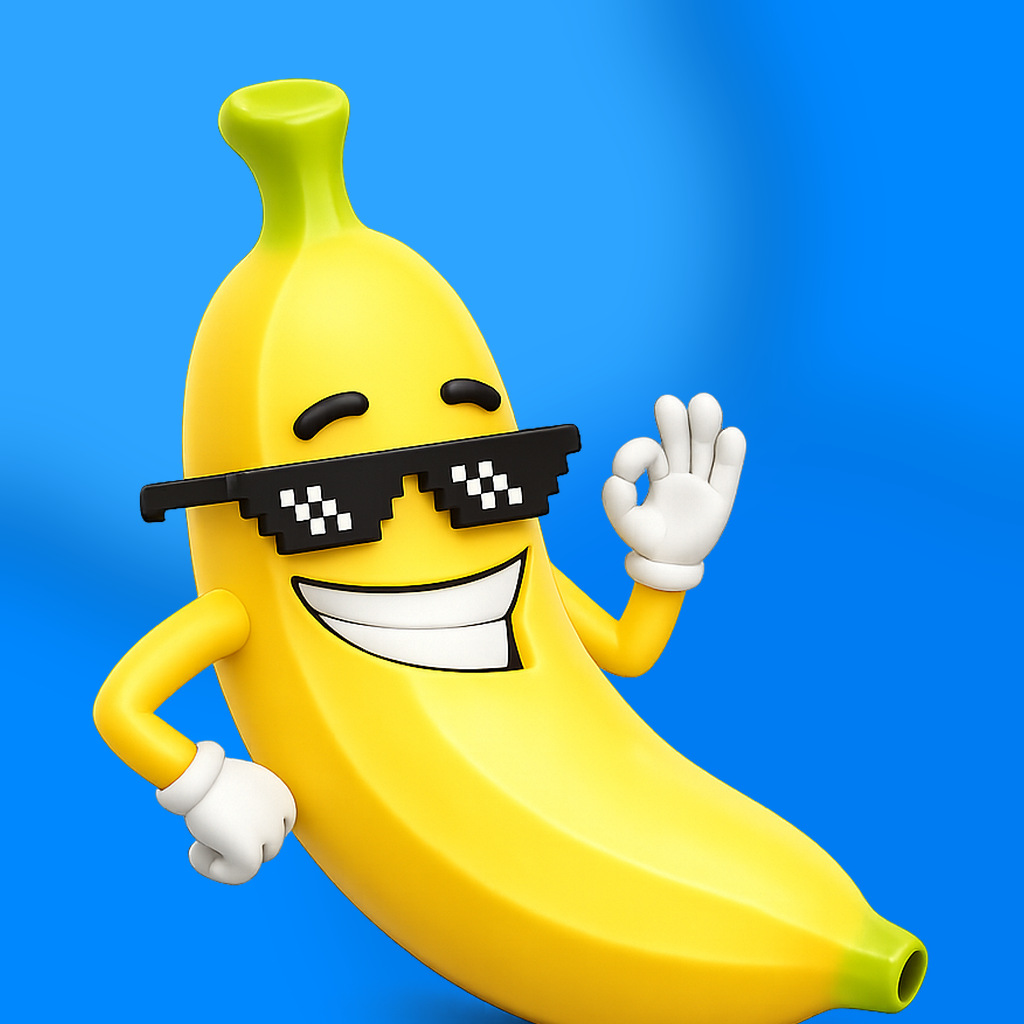
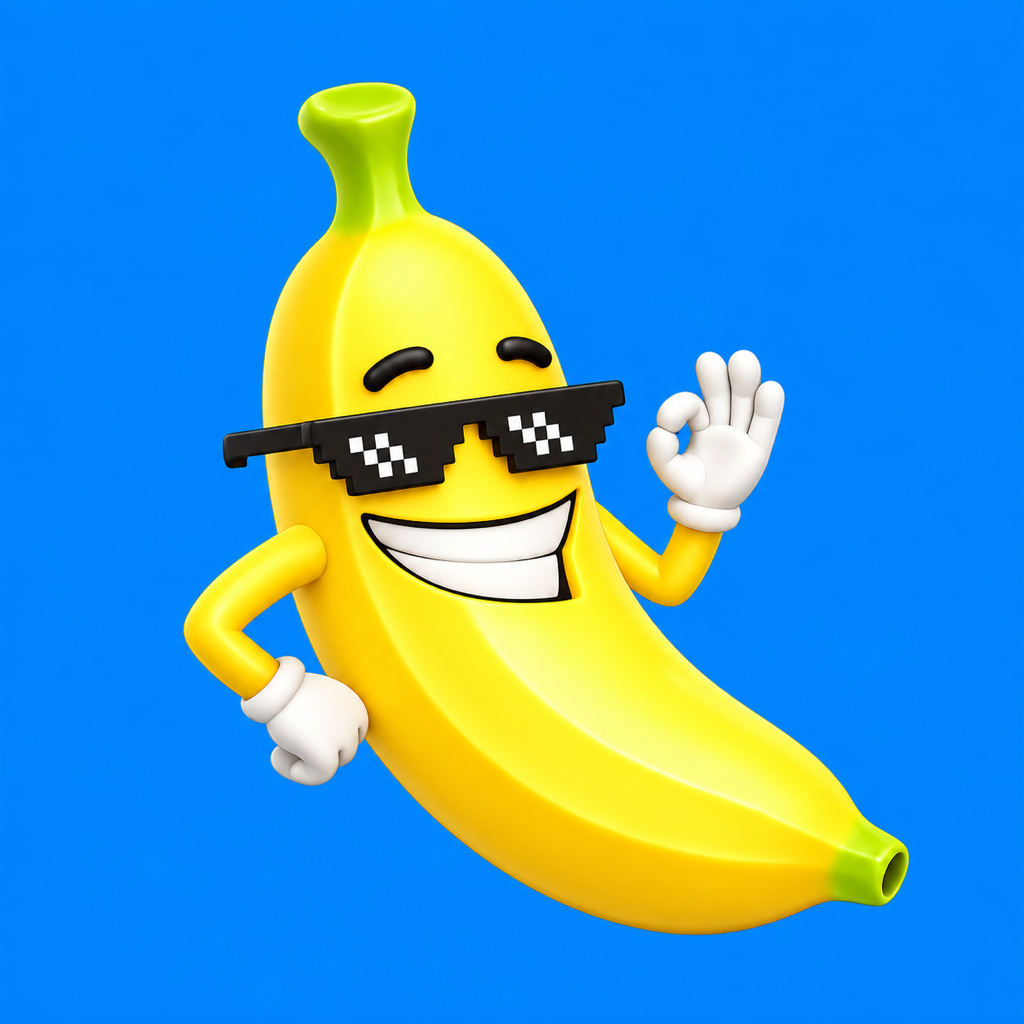
WEB-0006: Refactoring

diff --git a/index.html b/index.html
@@ -38,8 +38,8 @@
       content="A focused workout app for plans, timers, and statistics that make progress easy to read."
     >
     <meta name="twitter:image" content="https://fkngym.com/assets/og-image.png?v=20260803-2">
-    <link rel="icon" type="image/png" href="assets/favicon.png">
-    <link rel="apple-touch-icon" href="assets/apple-touch-icon.png">
+    <link rel="icon" type="image/png" sizes="48x48" href="assets/favicon.png?v=20261026-3">
+    <link rel="apple-touch-icon" sizes="180x180" href="assets/apple-touch-icon.png?v=20261026-2">
     <link rel="stylesheet" href="styles.css?v=20260909-layout">
   </head>
   <body class="page-home" data-page-title="homePageTitle">
@@ -47,7 +47,7 @@
       <div class="header-bar">
         <a class="brand-link" href="#home" aria-label="FKNGYM">
           <span class="mascot-mark" aria-hidden="true">
-            <img src="assets/mascot-transparent.png" alt="">
+            <img src="assets/mascot-transparent.webp" alt="" width="192" height="192">
           </span>
           <span class="wordmark"><span class="brand-accent">FKN</span><span class="brand-neon">G</span>YM</span>
         </a>
@@ -80,12 +80,12 @@
 
           <div class="hero-art" aria-label="FKNGYM app preview" data-i18n-aria="homePageTitle">
             <div class="hero-device hero-device-main">
-              <img class="localized-screenshot" src="assets/screenshots/en/calendar.png" data-screenshot="calendar" width="1380" height="2880" alt="" fetchpriority="high">
+              <img class="localized-screenshot" src="assets/screenshots/en/calendar.webp" data-screenshot="calendar" width="1380" height="2880" alt="" fetchpriority="high">
             </div>
             <div class="hero-device hero-device-side">
-              <img class="localized-screenshot" src="assets/screenshots/en/statistics.png" data-screenshot="statistics" width="1380" height="2880" alt="" fetchpriority="high">
+              <img class="localized-screenshot" src="assets/screenshots/en/statistics.webp" data-screenshot="statistics" width="1380" height="2880" alt="" fetchpriority="high">
             </div>
-            <img class="hero-mascot" src="assets/mascots/mascot-dumbbells-cutout.png" alt="">
+            <img class="hero-mascot" src="assets/mascots/mascot-dumbbells-cutout.webp" alt="" width="640" height="854">
           </div>
         </div>
       </section>
@@ -115,27 +115,27 @@
           <p data-i18n="widgetsBody">A rich set of interactive widgets puts workouts, timers, progress, and quick actions within reach—without opening the app.</p>
         </div>
         <div class="widget-wall" aria-hidden="true">
-          <figure class="widget-tile widget-medium"><img src="assets/widgets/en/light/today-medium.png" data-widget="today-medium" width="1092" height="510" alt="" loading="lazy"></figure>
-          <figure class="widget-tile widget-small"><img src="assets/widgets/en/light/volume-week-small.png" data-widget="volume-week-small" width="492" height="510" alt="" loading="lazy"></figure>
-          <figure class="widget-tile widget-medium"><img src="assets/widgets/en/light/timer-running-medium.png" data-widget="timer-running-medium" width="1092" height="510" alt="" loading="lazy"></figure>
-          <figure class="widget-tile widget-large"><img src="assets/widgets/en/light/balance-large.png" data-widget="balance-large" width="1092" height="1146" alt="" loading="lazy"></figure>
-          <figure class="widget-tile widget-small"><img src="assets/widgets/en/light/rhythm-small.png" data-widget="rhythm-small" width="492" height="510" alt="" loading="lazy"></figure>
-          <figure class="widget-tile widget-medium"><img src="assets/widgets/en/light/volume-chest-medium.png" data-widget="volume-chest-medium" width="1092" height="510" alt="" loading="lazy"></figure>
-          <figure class="widget-tile widget-small"><img src="assets/widgets/en/light/today-small.png" data-widget="today-small" width="492" height="510" alt="" loading="lazy"></figure>
-          <figure class="widget-tile widget-small"><img src="assets/widgets/en/light/balance-small.png" data-widget="balance-small" width="492" height="510" alt="" loading="lazy"></figure>
-          <figure class="widget-tile widget-small"><img src="assets/widgets/en/light/timer-start-small.png" data-widget="timer-start-small" width="492" height="510" alt="" loading="lazy"></figure>
-          <figure class="widget-tile widget-medium"><img src="assets/widgets/en/light/volume-quarter-medium.png" data-widget="volume-quarter-medium" width="1092" height="510" alt="" loading="lazy"></figure>
-          <figure class="widget-tile widget-medium"><img src="assets/widgets/en/light/rhythm-medium.png" data-widget="rhythm-medium" width="1092" height="510" alt="" loading="lazy"></figure>
-          <figure class="widget-tile widget-large"><img src="assets/widgets/en/light/today-large.png" data-widget="today-large" width="1092" height="1146" alt="" loading="lazy"></figure>
-          <figure class="widget-tile widget-small"><img src="assets/widgets/en/light/volume-back-small.png" data-widget="volume-back-small" width="492" height="510" alt="" loading="lazy"></figure>
-          <figure class="widget-tile widget-medium"><img src="assets/widgets/en/light/balance-medium.png" data-widget="balance-medium" width="1092" height="510" alt="" loading="lazy"></figure>
-          <figure class="widget-tile widget-small"><img src="assets/widgets/en/light/volume-month-small.png" data-widget="volume-month-small" width="492" height="510" alt="" loading="lazy"></figure>
-          <figure class="widget-tile widget-medium"><img src="assets/widgets/en/light/volume-week-medium.png" data-widget="volume-week-medium" width="1092" height="510" alt="" loading="lazy"></figure>
-          <figure class="widget-tile widget-small"><img src="assets/widgets/en/light/volume-chest-small.png" data-widget="volume-chest-small" width="492" height="510" alt="" loading="lazy"></figure>
-          <figure class="widget-tile widget-small"><img src="assets/widgets/en/light/volume-quarter-small.png" data-widget="volume-quarter-small" width="492" height="510" alt="" loading="lazy"></figure>
-          <figure class="widget-tile widget-small"><img src="assets/widgets/en/light/timer-paused-small.png" data-widget="timer-paused-small" width="492" height="510" alt="" loading="lazy"></figure>
-          <figure class="widget-tile widget-medium"><img src="assets/widgets/en/light/volume-back-medium.png" data-widget="volume-back-medium" width="1092" height="510" alt="" loading="lazy"></figure>
-          <figure class="widget-tile widget-medium"><img src="assets/widgets/en/light/volume-month-medium.png" data-widget="volume-month-medium" width="1092" height="510" alt="" loading="lazy"></figure>
+          <figure class="widget-tile widget-medium"><img src="assets/widgets/en/light/today-medium.webp" data-widget="today-medium" width="1092" height="510" alt="" loading="lazy"></figure>
+          <figure class="widget-tile widget-small"><img src="assets/widgets/en/light/volume-week-small.webp" data-widget="volume-week-small" width="492" height="510" alt="" loading="lazy"></figure>
+          <figure class="widget-tile widget-medium"><img src="assets/widgets/en/light/timer-running-medium.webp" data-widget="timer-running-medium" width="1092" height="510" alt="" loading="lazy"></figure>
+          <figure class="widget-tile widget-large"><img src="assets/widgets/en/light/balance-large.webp" data-widget="balance-large" width="1092" height="1146" alt="" loading="lazy"></figure>
+          <figure class="widget-tile widget-small"><img src="assets/widgets/en/light/rhythm-small.webp" data-widget="rhythm-small" width="492" height="510" alt="" loading="lazy"></figure>
+          <figure class="widget-tile widget-medium"><img src="assets/widgets/en/light/volume-chest-medium.webp" data-widget="volume-chest-medium" width="1092" height="510" alt="" loading="lazy"></figure>
+          <figure class="widget-tile widget-small"><img src="assets/widgets/en/light/today-small.webp" data-widget="today-small" width="492" height="510" alt="" loading="lazy"></figure>
+          <figure class="widget-tile widget-small"><img src="assets/widgets/en/light/balance-small.webp" data-widget="balance-small" width="492" height="510" alt="" loading="lazy"></figure>
+          <figure class="widget-tile widget-small"><img src="assets/widgets/en/light/timer-start-small.webp" data-widget="timer-start-small" width="492" height="510" alt="" loading="lazy"></figure>
+          <figure class="widget-tile widget-medium"><img src="assets/widgets/en/light/volume-quarter-medium.webp" data-widget="volume-quarter-medium" width="1092" height="510" alt="" loading="lazy"></figure>
+          <figure class="widget-tile widget-medium"><img src="assets/widgets/en/light/rhythm-medium.webp" data-widget="rhythm-medium" width="1092" height="510" alt="" loading="lazy"></figure>
+          <figure class="widget-tile widget-large"><img src="assets/widgets/en/light/today-large.webp" data-widget="today-large" width="1092" height="1146" alt="" loading="lazy"></figure>
+          <figure class="widget-tile widget-small"><img src="assets/widgets/en/light/volume-back-small.webp" data-widget="volume-back-small" width="492" height="510" alt="" loading="lazy"></figure>
+          <figure class="widget-tile widget-medium"><img src="assets/widgets/en/light/balance-medium.webp" data-widget="balance-medium" width="1092" height="510" alt="" loading="lazy"></figure>
+          <figure class="widget-tile widget-small"><img src="assets/widgets/en/light/volume-month-small.webp" data-widget="volume-month-small" width="492" height="510" alt="" loading="lazy"></figure>
+          <figure class="widget-tile widget-medium"><img src="assets/widgets/en/light/volume-week-medium.webp" data-widget="volume-week-medium" width="1092" height="510" alt="" loading="lazy"></figure>
+          <figure class="widget-tile widget-small"><img src="assets/widgets/en/light/volume-chest-small.webp" data-widget="volume-chest-small" width="492" height="510" alt="" loading="lazy"></figure>
+          <figure class="widget-tile widget-small"><img src="assets/widgets/en/light/volume-quarter-small.webp" data-widget="volume-quarter-small" width="492" height="510" alt="" loading="lazy"></figure>
+          <figure class="widget-tile widget-small"><img src="assets/widgets/en/light/timer-paused-small.webp" data-widget="timer-paused-small" width="492" height="510" alt="" loading="lazy"></figure>
+          <figure class="widget-tile widget-medium"><img src="assets/widgets/en/light/volume-back-medium.webp" data-widget="volume-back-medium" width="1092" height="510" alt="" loading="lazy"></figure>
+          <figure class="widget-tile widget-medium"><img src="assets/widgets/en/light/volume-month-medium.webp" data-widget="volume-month-medium" width="1092" height="510" alt="" loading="lazy"></figure>
         </div>
       </section>
 
@@ -154,7 +154,7 @@
               <p data-i18n="calendarBody">Switch between week and month rhythm, keep notes for the day, repeat workouts, and jump back into active exercises.</p>
             </div>
             <div class="screenshot-frame screenshot-crop-top phone-frame">
-              <img class="localized-screenshot" src="assets/screenshots/en/calendar.png" data-screenshot="calendar" width="1380" height="2880" alt="" loading="lazy">
+              <img class="localized-screenshot" src="assets/screenshots/en/calendar.webp" data-screenshot="calendar" width="1380" height="2880" alt="" loading="lazy">
             </div>
           </article>
 
@@ -165,7 +165,7 @@
               <p data-i18n="logBody">Each exercise keeps the input mode it needs, including timers for active work.</p>
             </div>
             <div class="screenshot-frame screenshot-crop-top mini-frame bento-inline-frame">
-              <img class="localized-screenshot" src="assets/screenshots/en/strength.png" data-screenshot="strength" width="1380" height="2880" alt="" loading="lazy">
+              <img class="localized-screenshot" src="assets/screenshots/en/strength.webp" data-screenshot="strength" width="1380" height="2880" alt="" loading="lazy">
             </div>
           </article>
 
@@ -192,14 +192,14 @@
           </article>
           <article class="stat-card stat-card-wide">
             <div class="screenshot-frame screenshot-crop-top chart-frame">
-              <img class="localized-screenshot" src="assets/screenshots/en/statistics.png" data-screenshot="statistics" width="1380" height="2880" alt="" loading="lazy">
+              <img class="localized-screenshot" src="assets/screenshots/en/statistics.webp" data-screenshot="statistics" width="1380" height="2880" alt="" loading="lazy">
             </div>
           </article>
           <article class="stat-card">
             <span data-i18n="statExerciseLabel">Exercise progress</span>
             <strong data-i18n="statExerciseTitle">Open the history behind a movement</strong>
             <p data-i18n="statExerciseBody">Review how strength, distance, duration, and repetitions changed exercise by exercise.</p>
-            <img class="stats-card-mascot" src="assets/mascots/mascot-grape-cutout.png" alt="">
+            <img loading="lazy" decoding="async" class="stats-card-mascot" src="assets/mascots/mascot-grape-cutout.webp" alt="" width="576" height="668">
           </article>
         </div>
       </section>
@@ -207,7 +207,7 @@
       <section class="plans-section">
         <div class="plans-visual">
           <div class="screenshot-frame phone-frame">
-            <img class="localized-screenshot" src="assets/screenshots/en/plan.png" data-screenshot="plan" width="1380" height="2880" alt="" loading="lazy">
+            <img class="localized-screenshot" src="assets/screenshots/en/plan.webp" data-screenshot="plan" width="1380" height="2880" alt="" loading="lazy">
           </div>
         </div>
         <div class="plans-copy">
@@ -228,7 +228,7 @@
           <span data-i18n="activePillDuration">Duration sets</span>
           <span data-i18n="activePillDistance">Distance work</span>
         </div>
-        <img class="active-mascot" src="assets/mascots/mascot-pepper-cutout.png" alt="">
+        <img loading="lazy" decoding="async" class="active-mascot" src="assets/mascots/mascot-pepper-cutout.webp" alt="" width="900" height="900">
       </section>
 
       <section class="pricing-section" id="pricing">
@@ -292,7 +292,7 @@
     <footer class="site-footer">
       <div class="footer-brand">
         <span class="mascot-mark mascot-mark-footer" aria-hidden="true">
-          <img src="assets/mascot-transparent.png" alt="">
+          <img src="assets/mascot-transparent.webp" alt="" width="192" height="192">
         </span>
         <p><span class="brand-accent">FKN</span><span class="brand-neon">G</span>YM</p>
       </div>

diff --git a/privacy/index.html b/privacy/index.html
@@ -17,15 +17,15 @@
     <meta name="description" content="Privacy Policy for FKNGYM: workout logging and training statistics.">
     <title>FKNGYM — Privacy Policy</title>
     <link rel="canonical" href="https://fkngym.com/privacy/">
-    <link rel="icon" type="image/png" href="../assets/favicon.png">
-    <link rel="apple-touch-icon" href="../assets/apple-touch-icon.png">
+    <link rel="icon" type="image/png" sizes="48x48" href="../assets/favicon.png?v=20261026-3">
+    <link rel="apple-touch-icon" sizes="180x180" href="../assets/apple-touch-icon.png?v=20261026-2">
     <link rel="stylesheet" href="../styles.css?v=20260909-layout">
   </head>
   <body class="page-legal" data-page-title="privacyTitle">
     <header class="home-header">
       <div class="header-bar">
         <a class="brand-link" href="/" aria-label="FKNGYM">
-          <span class="mascot-mark" aria-hidden="true"><img src="../assets/mascot-transparent.png" alt=""></span>
+          <span class="mascot-mark" aria-hidden="true"><img src="../assets/mascot-transparent.webp" alt="" width="192" height="192"></span>
           <span class="wordmark"><span class="brand-accent">FKN</span><span class="brand-neon">G</span>YM</span>
         </a>
         <nav class="header-nav legal-nav" aria-label="Documents / Документы" data-i18n-aria="navLabel">
@@ -164,7 +164,7 @@
     </main>
     <footer class="site-footer">
       <div class="footer-brand">
-        <span class="mascot-mark mascot-mark-footer" aria-hidden="true"><img src="../assets/mascot-transparent.png" alt=""></span>
+        <span class="mascot-mark mascot-mark-footer" aria-hidden="true"><img src="../assets/mascot-transparent.webp" alt="" width="192" height="192"></span>
         <a class="wordmark" href="/" aria-label="FKNGYM"><span class="brand-accent">FKN</span><span class="brand-neon">G</span>YM</a>
       </div>
       <nav aria-label="Footer navigation" data-i18n-aria="navLabel">

diff --git a/terms/index.html b/terms/index.html
@@ -17,15 +17,15 @@
     <meta name="description" content="Terms of Use for FKNGYM: workout logging and training statistics.">
     <title>FKNGYM — Terms of Use</title>
     <link rel="canonical" href="https://fkngym.com/terms/">
-    <link rel="icon" type="image/png" href="../assets/favicon.png">
-    <link rel="apple-touch-icon" href="../assets/apple-touch-icon.png">
+    <link rel="icon" type="image/png" sizes="48x48" href="../assets/favicon.png?v=20261026-3">
+    <link rel="apple-touch-icon" sizes="180x180" href="../assets/apple-touch-icon.png?v=20261026-2">
     <link rel="stylesheet" href="../styles.css?v=20260909-layout">
   </head>
   <body class="page-legal" data-page-title="termsTitle">
     <header class="home-header">
       <div class="header-bar">
         <a class="brand-link" href="/" aria-label="FKNGYM">
-          <span class="mascot-mark" aria-hidden="true"><img src="../assets/mascot-transparent.png" alt=""></span>
+          <span class="mascot-mark" aria-hidden="true"><img src="../assets/mascot-transparent.webp" alt="" width="192" height="192"></span>
           <span class="wordmark"><span class="brand-accent">FKN</span><span class="brand-neon">G</span>YM</span>
         </a>
         <nav class="header-nav legal-nav" aria-label="Documents / Документы" data-i18n-aria="navLabel">
@@ -119,7 +119,7 @@
     </main>
     <footer class="site-footer">
       <div class="footer-brand">
-        <span class="mascot-mark mascot-mark-footer" aria-hidden="true"><img src="../assets/mascot-transparent.png" alt=""></span>
+        <span class="mascot-mark mascot-mark-footer" aria-hidden="true"><img src="../assets/mascot-transparent.webp" alt="" width="192" height="192"></span>
         <a class="wordmark" href="/" aria-label="FKNGYM"><span class="brand-accent">FKN</span><span class="brand-neon">G</span>YM</a>
       </div>
       <nav aria-label="Footer navigation" data-i18n-aria="navLabel">

diff --git a/support/index.html b/support/index.html
@@ -17,15 +17,15 @@
     <meta name="description" content="Support for FKNGYM: workout logging and training statistics.">
     <title>FKNGYM — Support</title>
     <link rel="canonical" href="https://fkngym.com/support/">
-    <link rel="icon" type="image/png" href="../assets/favicon.png">
-    <link rel="apple-touch-icon" href="../assets/apple-touch-icon.png">
+    <link rel="icon" type="image/png" sizes="48x48" href="../assets/favicon.png?v=20261026-3">
+    <link rel="apple-touch-icon" sizes="180x180" href="../assets/apple-touch-icon.png?v=20261026-2">
     <link rel="stylesheet" href="../styles.css?v=20260909-layout">
   </head>
   <body class="page-legal" data-page-title="supportPageTitle">
     <header class="home-header">
       <div class="header-bar">
         <a class="brand-link" href="/" aria-label="FKNGYM">
-          <span class="mascot-mark" aria-hidden="true"><img src="../assets/mascot-transparent.png" alt=""></span>
+          <span class="mascot-mark" aria-hidden="true"><img src="../assets/mascot-transparent.webp" alt="" width="192" height="192"></span>
           <span class="wordmark"><span class="brand-accent">FKN</span><span class="brand-neon">G</span>YM</span>
         </a>
         <nav class="header-nav legal-nav" aria-label="Documents / Документы" data-i18n-aria="navLabel">
@@ -106,7 +106,7 @@
     </main>
     <footer class="site-footer">
       <div class="footer-brand">
-        <span class="mascot-mark mascot-mark-footer" aria-hidden="true"><img src="../assets/mascot-transparent.png" alt=""></span>
+        <span class="mascot-mark mascot-mark-footer" aria-hidden="true"><img src="../assets/mascot-transparent.webp" alt="" width="192" height="192"></span>
         <a class="wordmark" href="/" aria-label="FKNGYM"><span class="brand-accent">FKN</span><span class="brand-neon">G</span>YM</a>
       </div>
       <nav aria-label="Footer navigation" data-i18n-aria="navLabel">

diff --git a/script.js b/script.js
@@ -278,7 +278,7 @@ function updateWidgets() {
   const localizedLocale = widgets.locales[language] || fallbackLocale;
   const root = localizedLocale[theme] || localizedLocale.light || fallbackRoot;
   document.querySelectorAll('[data-widget]').forEach(image => {
-    image.src = new URL(`${root}/${image.dataset.widget}.png`,baseURL).href;
+    image.src = new URL(`${root}/${image.dataset.widget}.webp`,baseURL).href;
   });
 }
 function initializeWidgetWall() {

diff --git a/styles.css b/styles.css
@@ -418,6 +418,7 @@ a {
   bottom: 0;
   left: 65%;
   width: 35%;
+  height: auto;
   pointer-events: none;
   user-select: none;
   filter: drop-shadow(0 20px 24px rgba(0, 44, 98, 0.24));
@@ -856,6 +857,7 @@ a {
   grid-column: 2;
   grid-row: 1 / span 2;
   width: min(100%, 300px);
+  height: auto;
   justify-self: center;
   pointer-events: none;
   user-select: none;

diff --git a/README.md b/README.md
@@ -216,3 +216,47 @@ The homepage and all document pages use the same sticky header. Language flags
 appear in both the searchable picker and native select fallback. The G in the
 wordmark periodically transitions to the brand accent; reduced motion disables
 this effect. Footer links to FKNGROUP preserve the selected language.
+
+## Optimized website images
+
+Screenshots and widgets use lossless WebP at their original dimensions, preserving
+text, transparency, and embedded ICC profiles. This includes both English/Russian
+locales and light/dark themes. Decorative mascots use WebP quality 90 and widths
+suited to their maximum display size at roughly 3× density: 192px for the header
+mark, 640px for the hero, 576px for the statistics mascot, and 900px for the active
+workout mascot. Below-the-fold decorative mascots load lazily. PNG favicons, the
+Apple touch icon, and the social preview remain in their existing compatible formats.
+
+The 26 October 2026 conversion reduced 104 used images from 20,115,355 to
+6,614,580 bytes (67.1%). The header mascot alone fell from 1,522,448 to 9,068 bytes.
+All 100 screenshot/widget conversions were checked for identical decoded RGBA
+pixels. These totals cover all locale/theme variants, not one page visit or a
+measured network loading time.
+
+Original PNGs are retained locally under ignored `docs/image-originals/assets/`
+and are excluded from `dist/`. They remain recoverable from Git history as well.
+The one-off optimizer `scripts/optimize-images.mjs` is also local and ignored;
+it is not part of a fresh checkout or the shared npm commands. On a machine with
+the helper and originals, install the `cwebp` CLI (for example, Homebrew's `webp`
+package) and run:
+
+```sh
+node scripts/optimize-images.mjs
+npm run build -- --snapshot
+```
+
+Normal builds and GitHub Actions use the checked-in WebP files and do not require
+the encoder or the local originals. Update the original in `docs/image-originals/`
+before re-encoding a revised image; the helper rejects conflicting PNG copies.
+
+## Local files and repository contents
+
+Keep reports in `reports/` or root `*_report.md` files, working material in `docs/`,
+and one-off helpers in `scripts/local/`. These paths, the image optimizer, and
+local `AGENTS.md` rules are ignored and remain on the developer's machine.
+Shared development, build, validation, synchronization, and Apple price export
+scripts remain versioned because they support the project's documented commands,
+tests, or GitHub Actions workflows.
+
+For a previously tracked local file, use `git rm --cached <path>` to stop tracking
+it while preserving the working copy. This does not erase past Git history.
